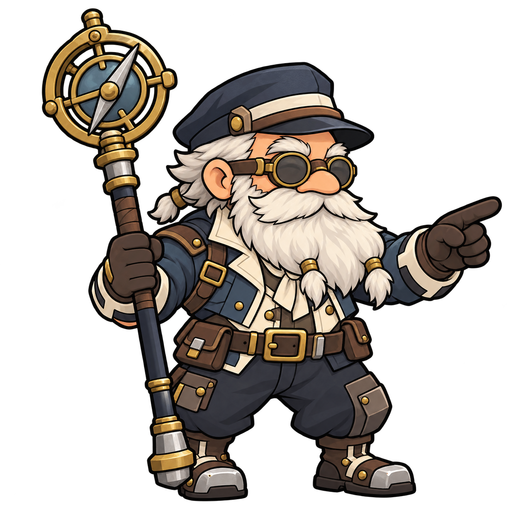
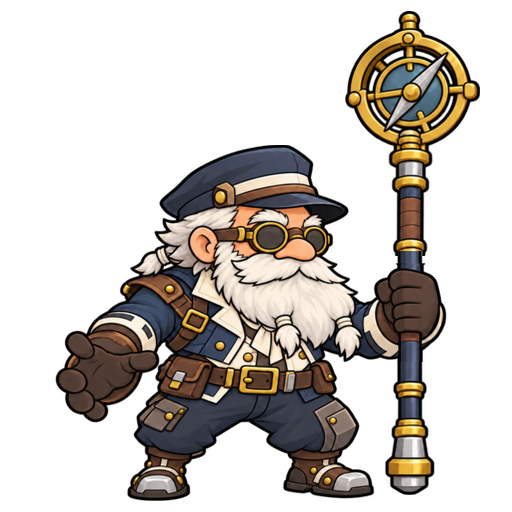
26 스카이아크 카르덴 시작: 새 원화(러스트와 같은 자세, 나침반 봉 세워 쥠) 합격 — 마이룸 그림 char_0026 교체, 리그 폴더·STATUS·참고 그림
Claude-Session: https://claude.ai/code/session_015ytCrWApV92AMmnGMogyWc

diff --git a/assets/rig/carden-sky/STATUS.md b/assets/rig/carden-sky/STATUS.md
@@ -1,0 +1,16 @@
+# 26 스카이아크 카르덴 (carden-sky) — 상태
+
+## 2026-10-18 20:59 시작 (DHL "이제 스카이아크 카르덴 시작합시다!")
+- 기준 리그: `assets/rig/carden-neon/` (16 네온 카르덴 v4.2 = 6 러스트 카르덴 v10 계열). 걸음·찌르기·바지 고정 다리·표정 방식(고글 그대로, 눈썹·코·입만)·땋은 수염(braid 뼈)·찌르기 팔 길이 고정(rigidArm)·게임 연결을 그대로 가져오고 조각·관절점만 새로 잼
+- DHL 결정(21:02): 네온과 똑같이(러스트 걸음·찌르기, 인사 없음) · 러스트 자세로 원화 새로(먼 손 봉 세워 쥠, 가까운 손 편 장갑) · 찌를 때 앞 = 나침반 머리
+- 요청 그림(21:06 보냄): 0 새 원화 → 1 조각 시트(6×6, 34칸 = 네온 31칸 + 땋은 수염 왼·오 17·32 + 찌르기 소매 팔뚝 33·윗팔 34) → 2 찌르기 쥔 손 2개(러스트 grip2 구성)
+- 첨부로 쓴 참고 그림 = `source/refs/` (A 러스트 자세, C 34칸 배치도, D 러스트 쥔 손, E 찌르기 모습)
+
+## 21:50 새 원화 받음 (0번) — 합격
+- 러스트 원화(char_0006)와 겹침: 발바닥 500 = 500(먼 발 498 / 러스트 493), 머리 꼭대기 145(모자) / 144(러스트 옆머리), 봉 축 x 409.5 = 409.5, 봉 기울기 −0.05°, 봉 길이 11→494 = 11→495
+- 손: 편 장갑 손가락 4 + 엄지, 봉 쥔 주먹 손가락 4(엄지 위). 쥔 주먹·편 손 자리 러스트 윤곽과 거의 같음
+- 디자인: 모자·고글(눈 위)·땋은 수염 두 갈래·귀 뒤 땋은 머리·코트·벨트·무릎 덧댐·은색 앞코 부츠·나침반 봉 = char_0026 그대로
+- 다른 점: **먼 다리가 더 벌어짐** — 먼 부츠 x 283~374(러스트 256~322, 가운데 약 +40), 가까운 부츠 127~203(러스트 137~211). 먼 부츠 앞코와 봉 은색 끝 사이 약 10px(러스트 약 50) → 다리 관절점·바짓단은 새로 재고, 서 있을 때·숨 쉴 때 부츠와 봉 끝이 겹치는지 확인
+- 투명 배경, 가장자리 어두운 테(흰 테 없음), 덩어리 1개
+- 게임 마이룸 그림 char_0026.png 교체(16과 같은 방식). 받은 그림 = source/ref512_received.png, 작업본 = source/ref512.png, 예전 가리키는 원화 = source/orig_char_0026_pointing.png, 비교 = source/review/art_vs_rust.png
+- 다음: 1번 조각 시트·2번 쥔 손 (이 원화를 첨부 1로)
